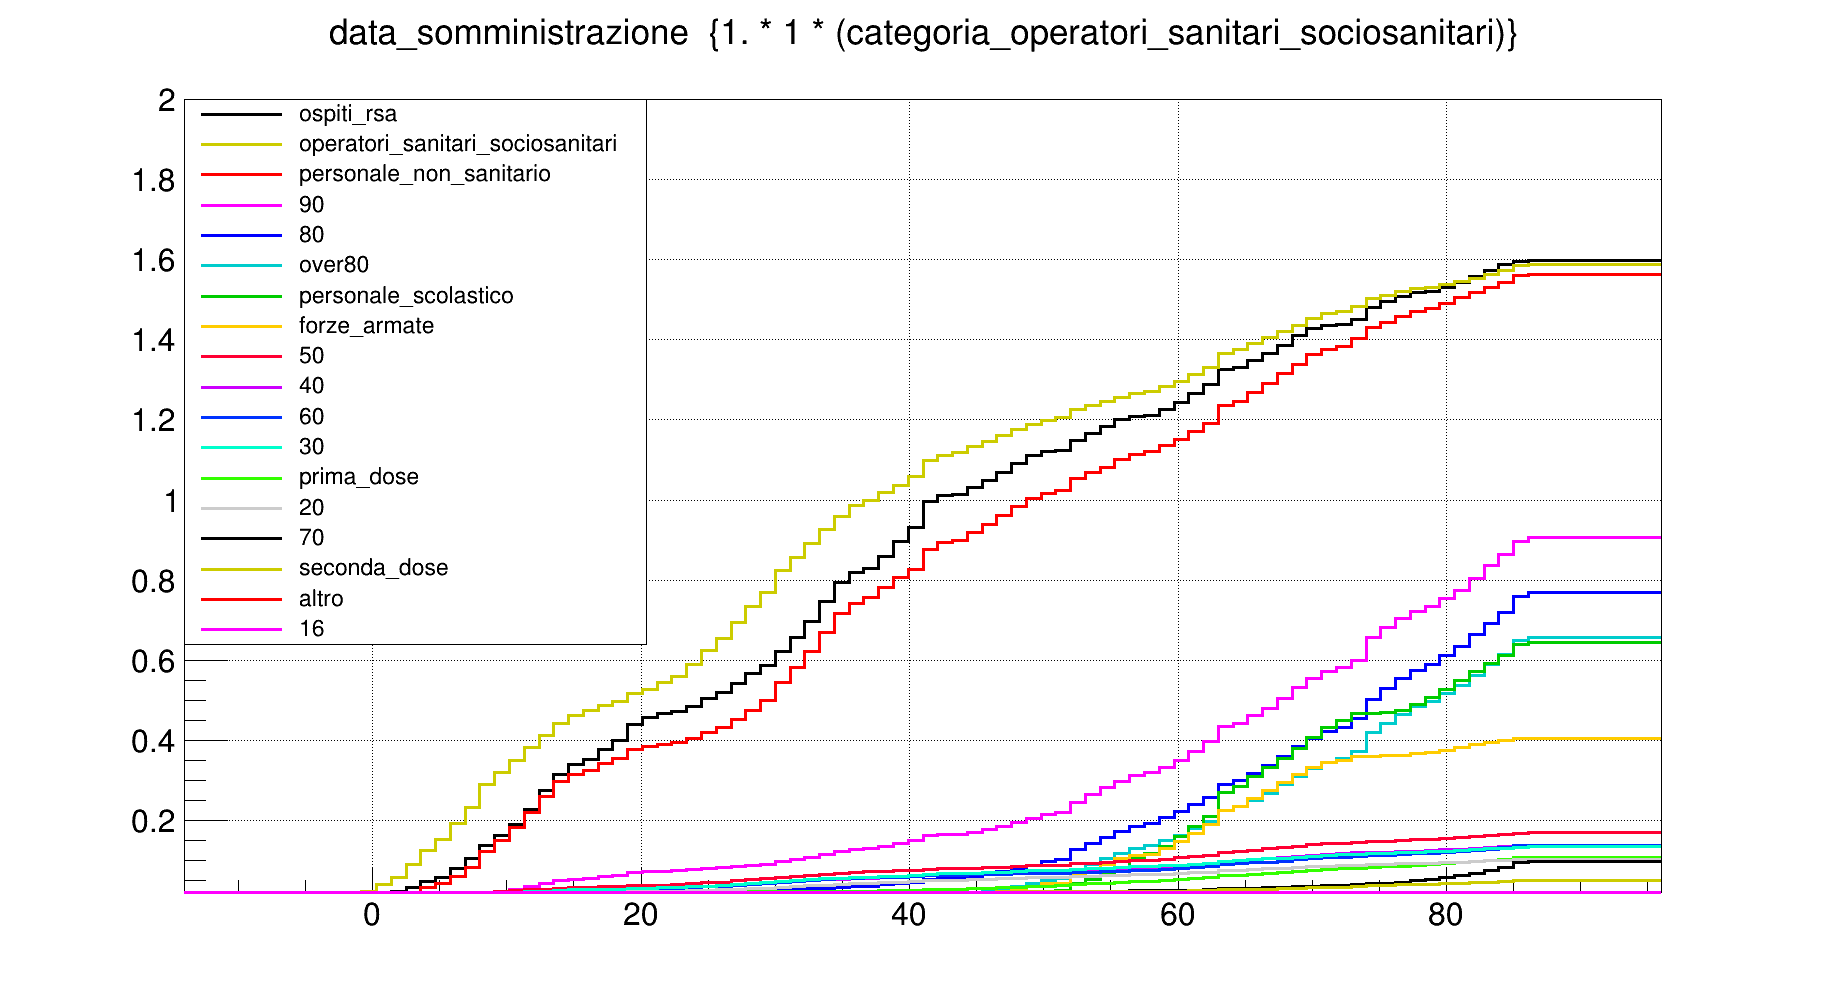
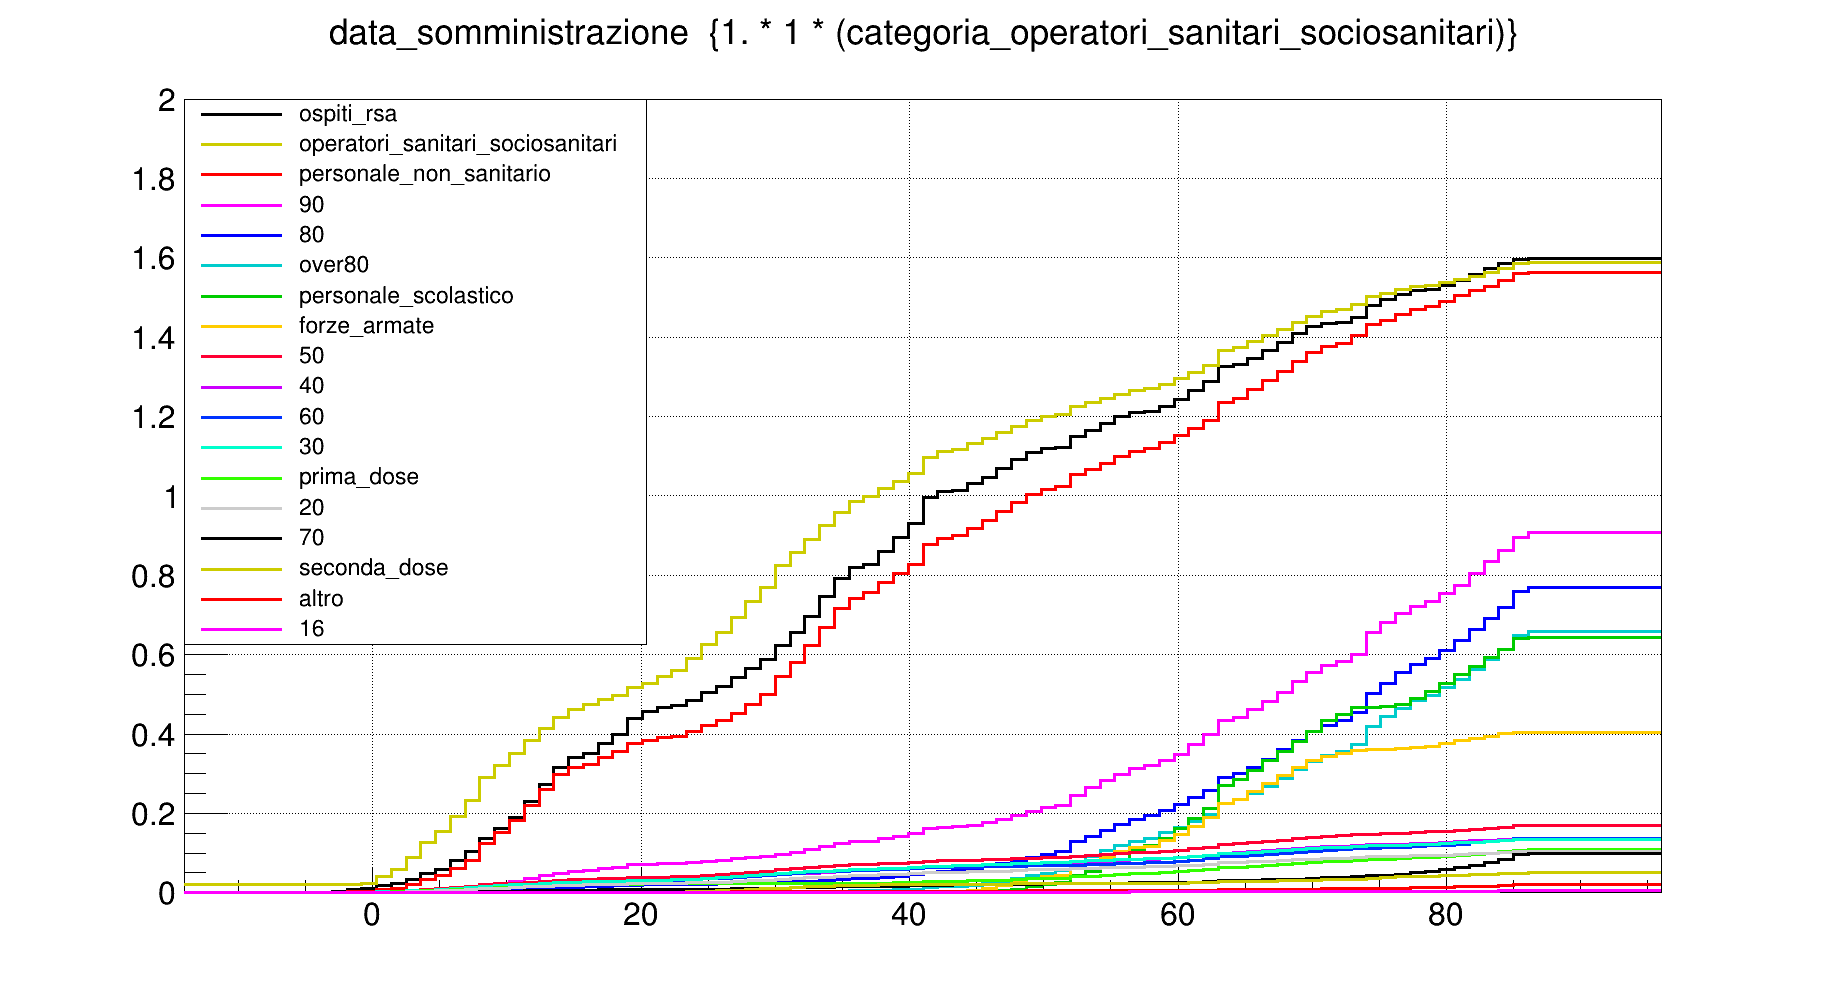
update vaccini

diff --git a/scriptVaccini.py b/scriptVaccini.py
@@ -223,49 +223,59 @@ cats = [
 max_=0
 histos = {}
 ratio = {}
-for i,cat in enumerate(cats):
-    dosi = str(cat)
-    selection = "1"
-    if type(cat)==int: 
-        dosi = "(prima_dose+seconda_dose) * (fascia_anagrafica==%d)"%cat
-    histos[cat] = getPlot(somministrazioniTree, selection = selection, dosi = dosi, cumulative = cumulative, hname="histo_%s"%str(cat))
-    histos[cat].SetLineWidth(3)
-    histos[cat].SetFillStyle(0)
-    histos[cat].Scale(1./norms[cat])
-    ratio[cat] = histos[cat].GetMaximum()
-    if not "sanitari" in str(cat): 
-        max_ = max(max_, histos[cat].GetMaximum())
+for tipo in ["prima_dose","seconda_dose","somministrazioni"]:
+    for i,cat in enumerate(cats):
+        dosi = str(cat)
+        if tipo == "somministrazioni":
+            if type(cat)==int: 
+                dosi = "(prima_dose+seconda_dose) * (fascia_anagrafica==%d)"%cat
+            else:
+                dosi = "(%s)"%cat
+        elif type(cat)==int:
+            dosi = "(%s) * (fascia_anagrafica==%d)"%(tipo,cat)
+        else:
+            continue
+        histos[cat] = getPlot(somministrazioniTree, selection = "1", dosi = dosi, cumulative = cumulative, hname="histo_%s"%str(cat))
+        histos[cat].SetLineWidth(3)
+        histos[cat].SetFillStyle(0)
+        histos[cat].Scale(1./norms[cat])
+        ratio[cat] = histos[cat].GetMaximum()
+        if not "sanitari" in str(cat): 
+            max_ = max(max_, histos[cat].GetMaximum())
+    
+    if tipo=="somministrazioni": leg = ROOT.TLegend(0.1,0.35,0.35,0.9)
+    else: leg = ROOT.TLegend(0.1,0.35,0.2,0.9)
+    
+    c1 = ROOT.TCanvas("c1","",1920, 1080)
+    for i,cat in enumerate(reversed([x for _,x in sorted(zip(ratio.values(),ratio.keys()))])):
+    #    histos[cat].SetMaximum(max_*1.1)
+        histos[cat].SetLineColor(colors[i])
+        if tipo=="somministrazioni": histos[cat].SetMaximum(2.)
+        else: histos[cat].SetMaximum(1.)
+    #    histos[cat].SetMinimum(0.02)
+        if i==0:
+            histos[cat].Draw("HIST")
+        else:
+            histos[cat].Draw("HIST,same")
+        leg.AddEntry(histos[cat],str(cat).replace("categoria_",""),"l");
+    leg.Draw("same")
 
-leg = ROOT.TLegend(0.1,0.35,0.35,0.9)
+    c1.SetGridx()
+    c1.SetGridy()
+    c1.GetListOfPrimitives()[1].GetYaxis().SetRangeUser(0.02, 2.)
+    ##c1.GetListOfPrimitives()[1].GetYaxis().SetRangeUser(0, max_*1.1)
+    c1.Modified()
+    c1.Update()
 
-c1 = ROOT.TCanvas("c1","",1920, 1080)
-for i,cat in enumerate(reversed([x for _,x in sorted(zip(ratio.values(),ratio.keys()))])):
-#    histos[cat].SetMaximum(max_*1.1)
-    histos[cat].SetLineColor(colors[i])
-    histos[cat].SetMaximum(2.)
-#    histos[cat].SetMinimum(0.02)
-    if i==0:
-        histos[cat].Draw("HIST")
-    else:
-        histos[cat].Draw("HIST,same")
-    leg.AddEntry(histos[cat],str(cat).replace("categoria_",""),"l");
-leg.Draw("same")
+    c1.SetLogy(0)
+    c1.SaveAs("%s.png"%tipo)
 
-c1.SetGridx()
-c1.SetGridy()
-c1.GetListOfPrimitives()[1].GetYaxis().SetRangeUser(0.02, 2.)
-##c1.GetListOfPrimitives()[1].GetYaxis().SetRangeUser(0, max_*1.1)
-c1.Modified()
-c1.Update()
+    c1.SetLogy()
+    c1.SaveAs("%s_log.png"%tipo)
 
-c1.SaveAs("vaccini.png")
-
-c1.SetLogy()
-c1.SaveAs("vaccini_log.png")
-
-#integral = ROOT.histo.GetIntegral()
-#for i in ROOT.histo:
-#    ROOT.histo.SetBinContent(i, integral[i])
+    #integral = ROOT.histo.GetIntegral()
+    #for i in ROOT.histo:
+    #    ROOT.histo.SetBinContent(i, integral[i])
 
 '''
 data_somministrazione,
